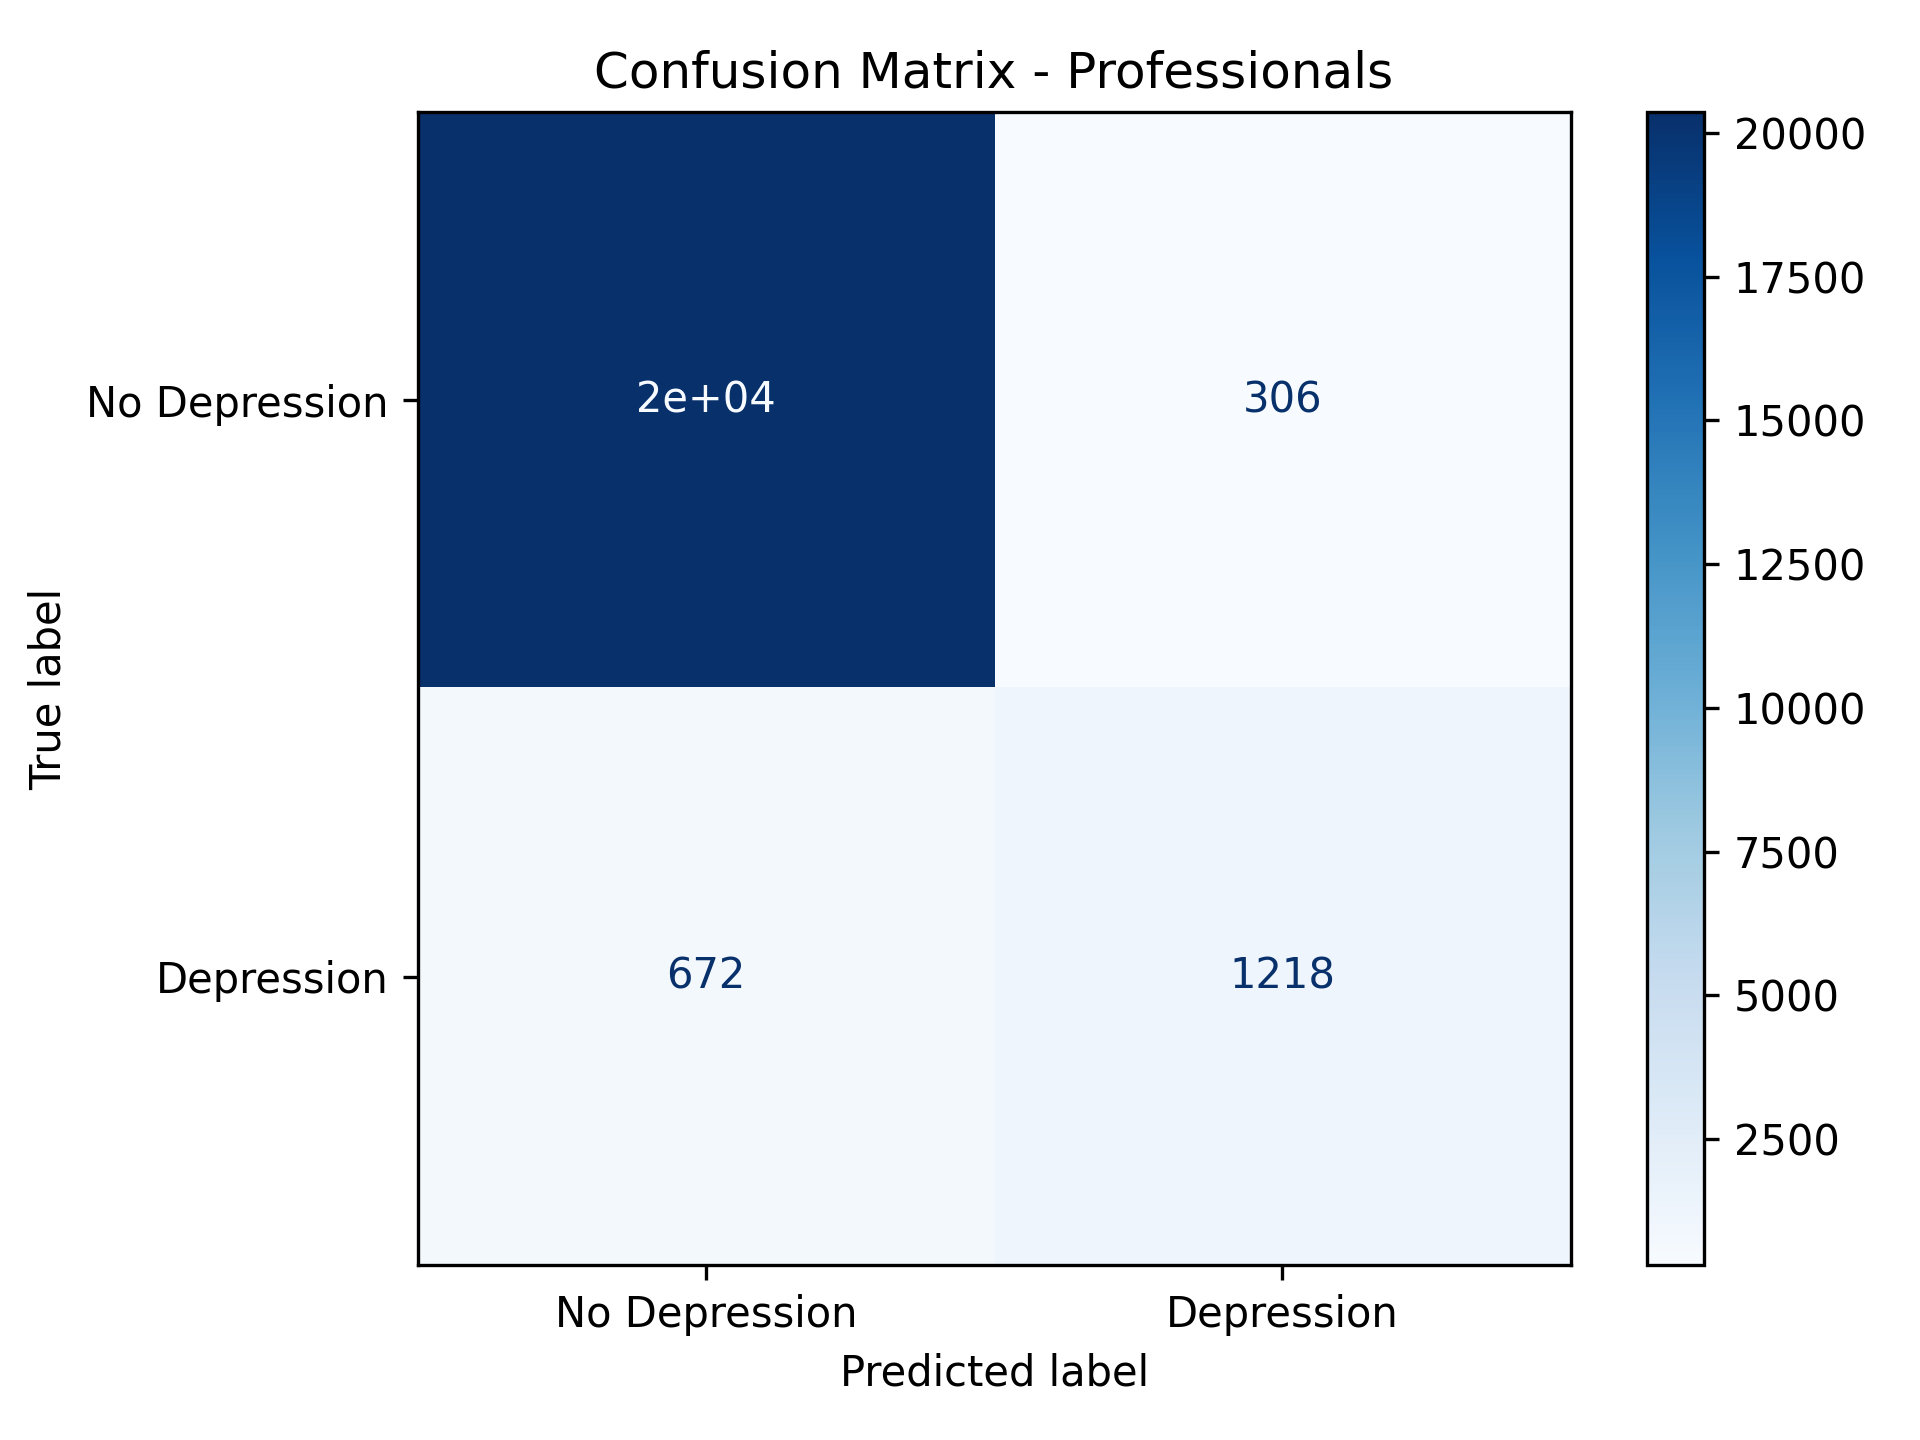
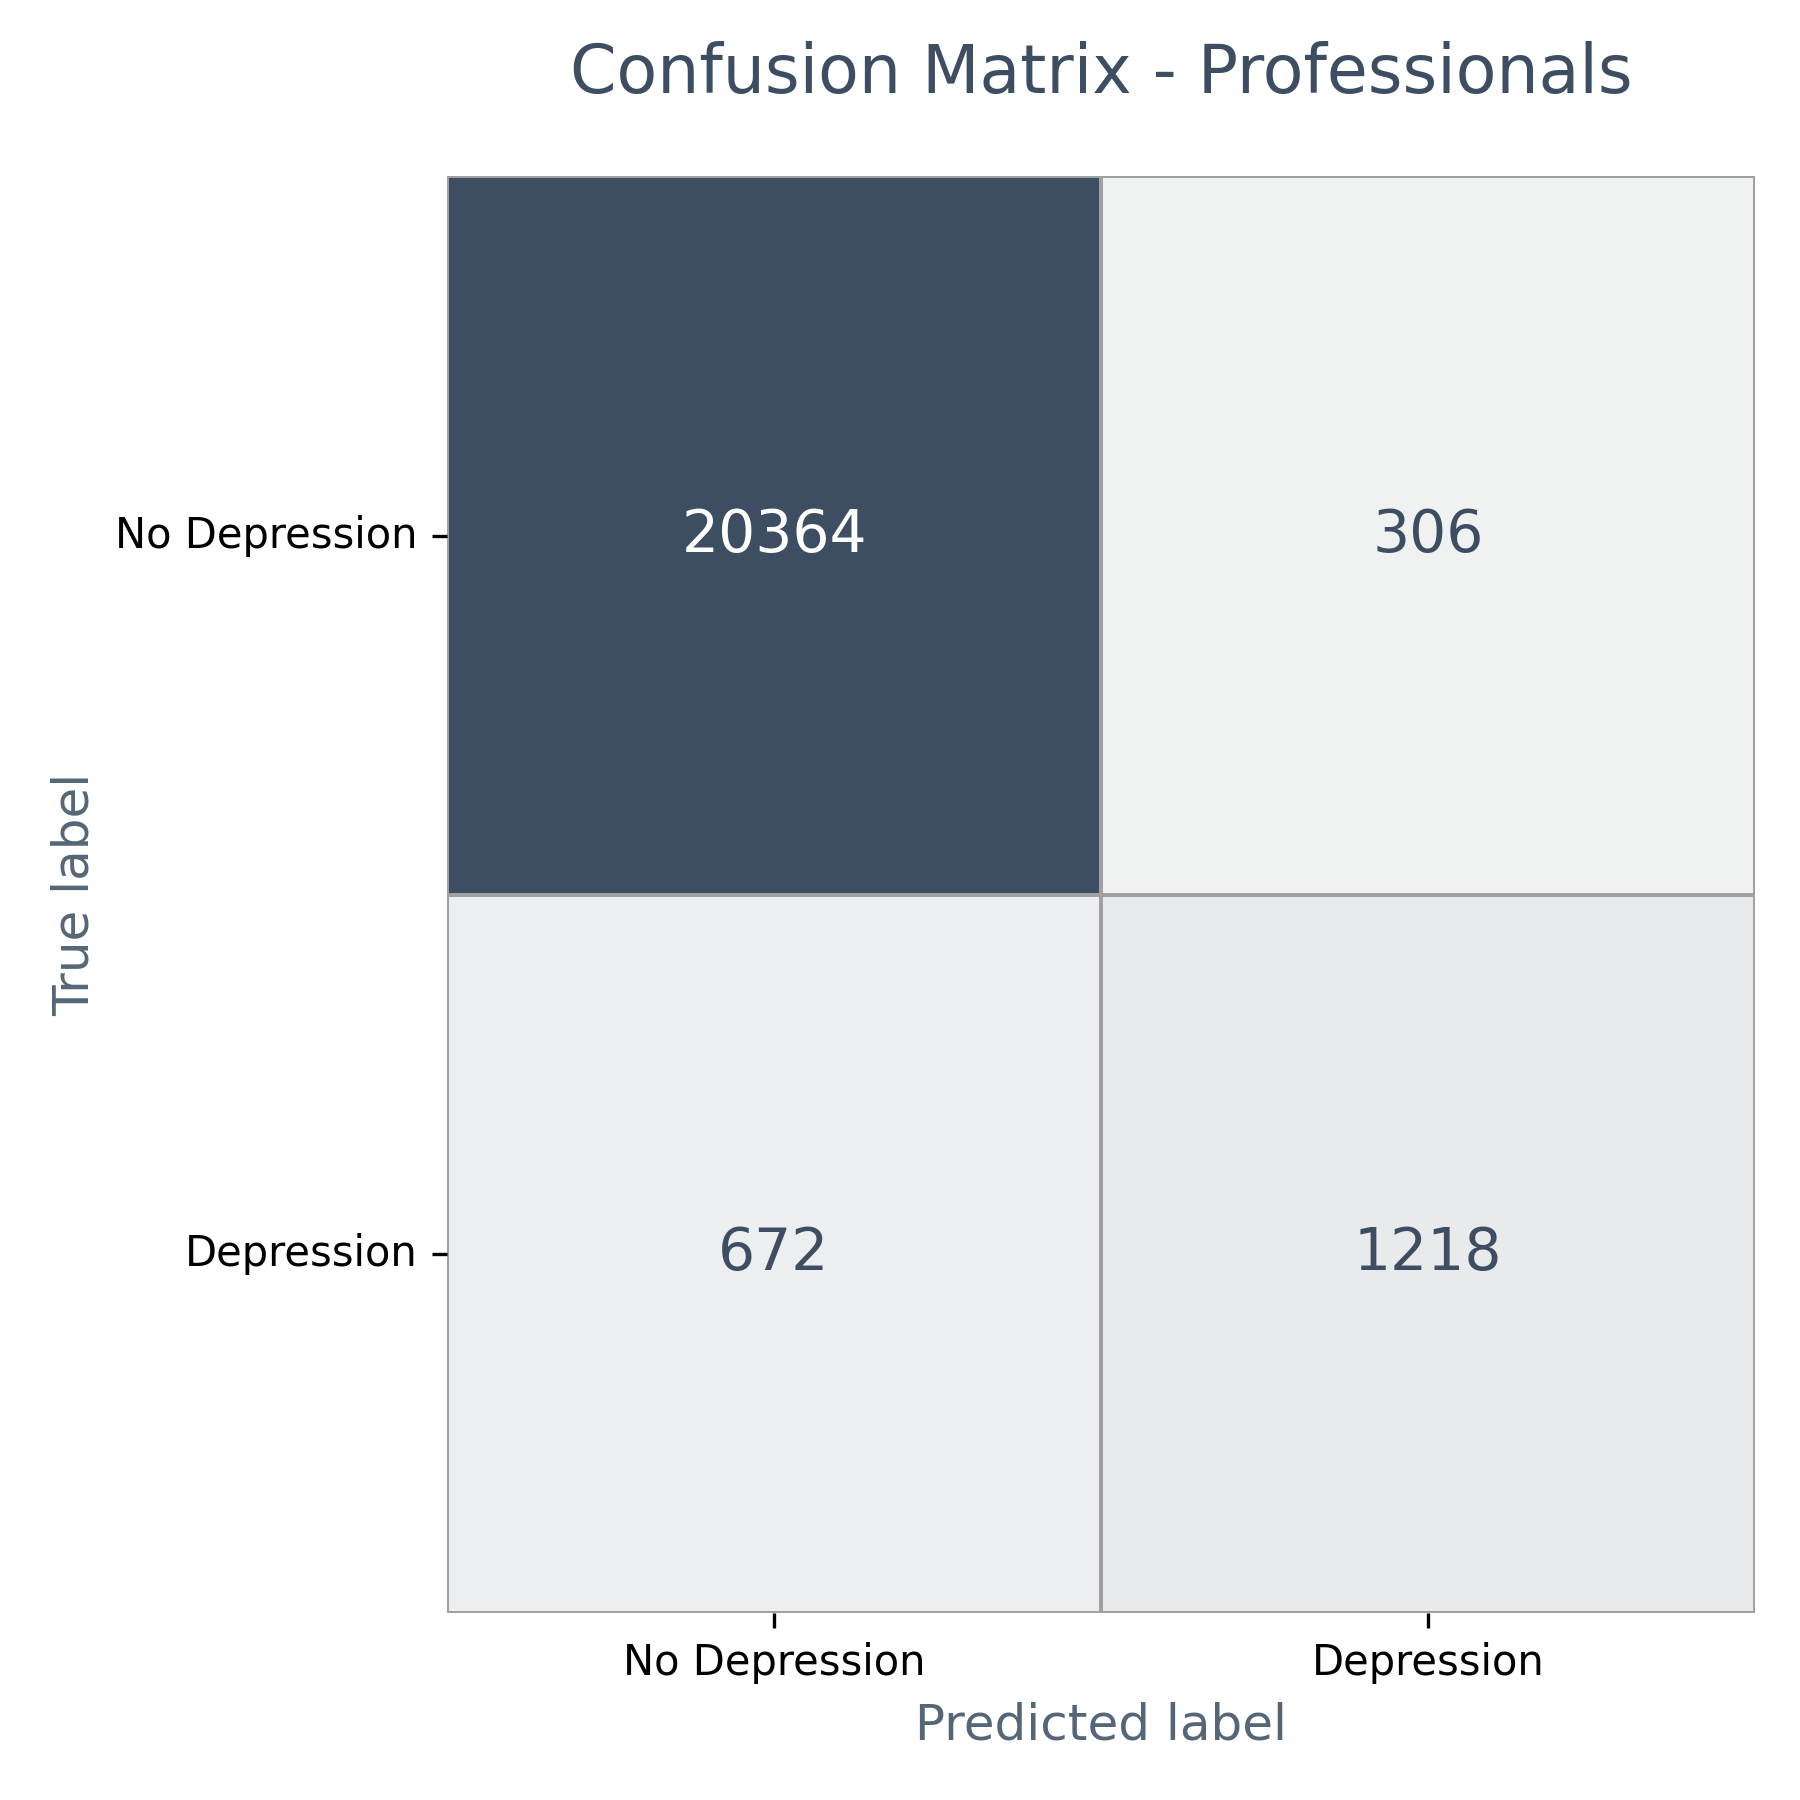
[RandomForest] 모델 구현 및 평가 결과 추가

diff --git a/1.modeling/1_random_forest.py b/1.modeling/1_random_forest.py
@@ -5,7 +5,7 @@ from sklearn.model_selection import train_test_split
 from sklearn.ensemble import RandomForestClassifier
 from sklearn.metrics import accuracy_score, classification_report, confusion_matrix, ConfusionMatrixDisplay
 import matplotlib.pyplot as plt
-
+import seaborn as sns
 #%%
 # 데이터 경로 설정 및 로드
 path = '0.preprocessing/mental_train_preprocessed.csv'
@@ -71,16 +71,61 @@ save_classification_report(y_test_students, y_pred_students, '1.modeling/rf_stud
 save_classification_report(y_test_professionals, y_pred_professionals, '1.modeling/rf_professionals_report.txt', 
                            'RandomForest - Professionals Classification Report', target_names)
 
-#%%
-# Confusion Matrix 시각화 및 저장 함수
+
+#%% Confusion Matrix 시각화 및 저장 함수  
 def plot_and_save_cm(y_true, y_pred, title, filename):
     cm = confusion_matrix(y_true, y_pred)
-    disp = ConfusionMatrixDisplay(confusion_matrix=cm, display_labels=target_names)
-    disp.plot(cmap='Blues')
-    plt.title(title)
+    plt.figure(figsize=(6,6))
+
+    # 최희영님이 원하시는 기존의 파란색 계열 팔레트 유지
+    cmap = sns.light_palette("#3d4e62", as_cmap=True)
+
+    ax = sns.heatmap(
+        cm,
+        annot=False,  # seaborn의 기본 annotation을 끕니다. (우리가 수동으로 추가할 것이기 때문)
+        fmt='g',
+        cmap=cmap,
+        cbar=False,
+        linewidths=0.5,
+        linecolor="#a0a0a0"
+    )
+
+    # --- 셀 안의 숫자 텍스트 색상을 배경색에 따라 자동으로 변경하는 로직 ---
+    # 컬러맵의 최소/최대 값을 기준으로 정규화
+    vmin = cm.min()
+    vmax = cm.max()
+    norm = plt.Normalize(vmin=vmin, vmax=vmax)
+
+    for i in range(cm.shape[0]):
+        for j in range(cm.shape[1]):
+            cell_value = cm[i, j]
+            # 해당 셀의 배경색을 컬러맵에서 가져옵니다 (RGBA 값).
+            bg_color_rgba = cmap(norm(cell_value))
+
+            # 배경색의 밝기(휘도)를 계산합니다. (밝기 계산 공식)
+            # RGB 값은 0-1 범위입니다.
+            r, g, b, _ = bg_color_rgba 
+            luminance = (0.299 * r + 0.587 * g + 0.114 * b)
+
+            # 밝기 임계값을 기준으로 텍스트 색상을 결정합니다.
+            # 0.5보다 밝으면 어두운 텍스트, 0.5보다 어두우면 밝은 텍스트(흰색)
+            text_color = 'white' if luminance < 0.5 else '#3d4e62' # 최희영님이 원하시는 텍스트 색상 사용
+
+            # 셀에 텍스트 추가 (정확히 중앙에 오도록 ha='center', va='center')
+            ax.text(j + 0.5, i + 0.5, f'{cell_value}',
+                    ha='center', va='center', color=text_color, fontsize=14, weight='normal')
+    # -----------------------------------------------------------------
+
+    ax.set_title(title, fontsize=16, color="#3d4e62", pad=20)
+    ax.set_xlabel('Predicted label', fontsize=12, color="#556677")
+    ax.set_ylabel('True label', fontsize=12, color="#556677")
+
+    ax.set_xticklabels(['No Depression', 'Depression'], rotation=0)
+    ax.set_yticklabels(['No Depression', 'Depression'], rotation=0)
+
     plt.tight_layout()
     plt.savefig(filename, dpi=300)
     plt.close()
 
-plot_and_save_cm(y_test_students, y_pred_students, 'Confusion Matrix - Students', '1.modeling/cm_students.png')
-plot_and_save_cm(y_test_professionals, y_pred_professionals, 'Confusion Matrix - Professionals', '1.modeling/cm_professionals.png')
+plot_and_save_cm(y_test_students, y_pred_students, 'Confusion Matrix - Students', '1.modeling/cm_rf_students.png')
+plot_and_save_cm(y_test_professionals, y_pred_professionals, 'Confusion Matrix - Professionals', '1.modeling/cm_rf_professionals.png')

diff --git a/1.modeling/2_logistic_regression.py b/1.modeling/2_logistic_regression.py
@@ -5,6 +5,7 @@ from sklearn.model_selection import train_test_split
 from sklearn.linear_model import LogisticRegression
 from sklearn.metrics import accuracy_score, classification_report, confusion_matrix, ConfusionMatrixDisplay
 import matplotlib.pyplot as plt
+import seaborn as sns
 
 #%% 데이터 불러오기
 path = '0.preprocessing/mental_train_preprocessed.csv'
@@ -61,17 +62,47 @@ save_classification_report(y_test_professionals, y_pred_professionals, '1.modeli
 #%% 혼동 행렬 시각화 및 저장 함수
 def plot_and_save_cm(y_true, y_pred, title, filename):
     cm = confusion_matrix(y_true, y_pred)
-    disp = ConfusionMatrixDisplay(confusion_matrix=cm, display_labels=['No Depression', 'Depression'])
-    disp.plot(cmap='Blues')
-    plt.title(title)
-    
-    plt.xticks(rotation=0)
-    plt.tight_layout()
+    plt.figure(figsize=(6,6))
 
-    
+    cmap = sns.light_palette("#3d4e62", as_cmap=True)
+
+    ax = sns.heatmap(
+        cm,
+        annot=False,                 # seaborn 기본 annotation 비활성화 (직접 텍스트 추가)
+        fmt='g',
+        cmap=cmap,
+        cbar=False,
+        linewidths=0.5,
+        linecolor="#a0a0a0"
+    )
+
+    # 셀 배경색 밝기에 따른 텍스트 색상 자동 조절
+    vmin = cm.min()
+    vmax = cm.max()
+    norm = plt.Normalize(vmin=vmin, vmax=vmax)
+
+    for i in range(cm.shape[0]):
+        for j in range(cm.shape[1]):
+            cell_value = cm[i, j]
+            bg_color_rgba = cmap(norm(cell_value))
+            r, g, b, _ = bg_color_rgba
+            luminance = (0.299 * r + 0.587 * g + 0.114 * b)
+            text_color = 'white' if luminance < 0.5 else '#3d4e62'
+            ax.text(j + 0.5, i + 0.5, f'{cell_value}', ha='center', va='center', color=text_color, fontsize=14, weight='normal')
+
+    ax.set_title(title, fontsize=16, color="#3d4e62", pad=20)
+    ax.set_xlabel('Predicted label', fontsize=12, color="#556677")
+    ax.set_ylabel('True label', fontsize=12, color="#556677")
+
+    ax.set_xticklabels(['No Depression', 'Depression'], rotation=0)
+    ax.set_yticklabels(['No Depression', 'Depression'], rotation=0)
+
+    plt.xticks(rotation=0)
+    plt.yticks(rotation=0)
+
+    plt.tight_layout()
     plt.savefig(filename, dpi=300)
     plt.close()
-
 
 
 plot_and_save_cm(y_test_students, y_pred_students, 'Confusion Matrix - Students', '1.modeling/cm_logreg_students.png')
